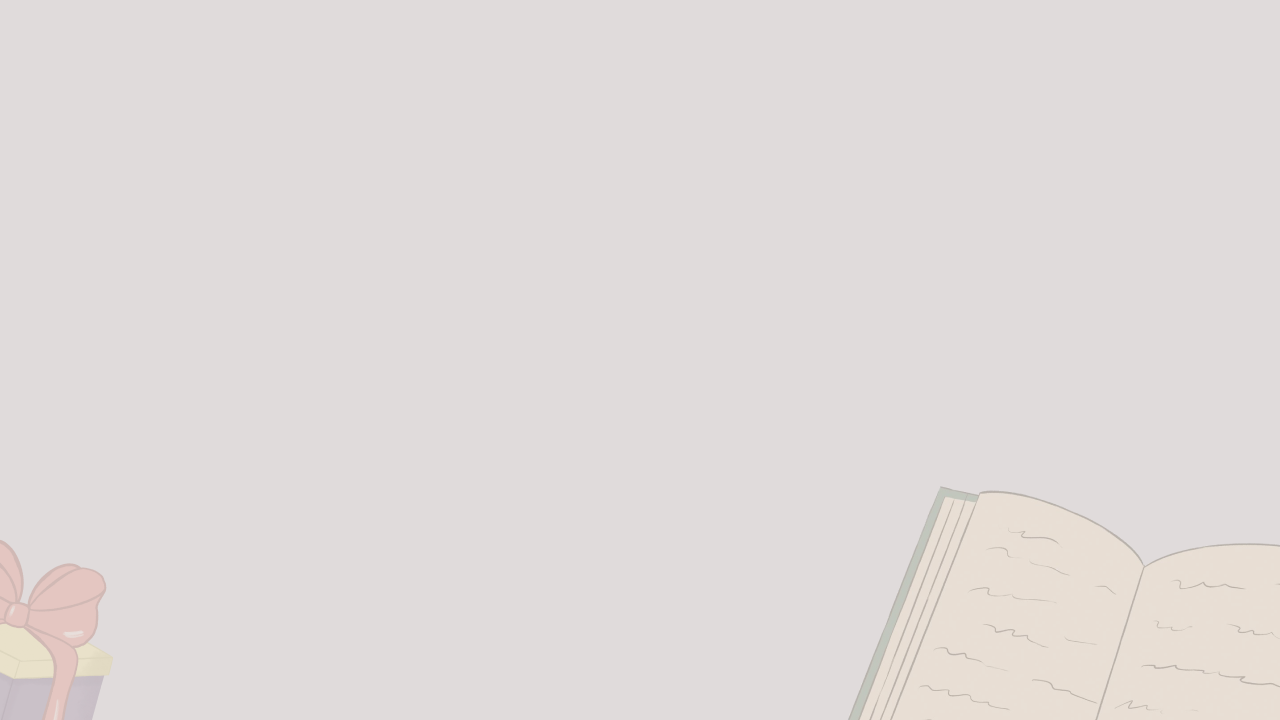
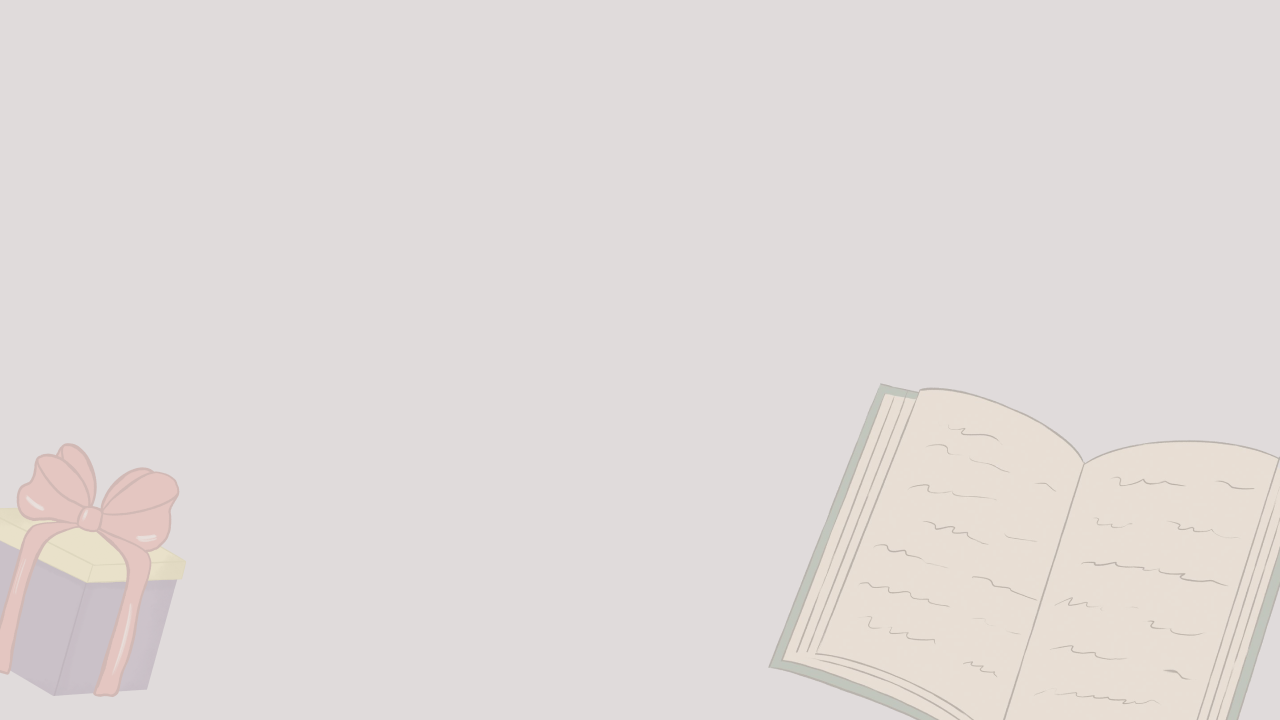
Working on About Us section

diff --git a/kazkovyi-dim-app/src/app/components/aboutUs/AboutUs.js b/kazkovyi-dim-app/src/app/components/aboutUs/AboutUs.js
@@ -1,0 +1,50 @@
+import { fetchAbouUs } from "@/app/utils/fetchAboutUs";
+import processImage from "@/app/utils/imageProcessor";
+import { PortableText } from "next-sanity";
+
+export default async function AboutUs() {
+  const aboutUsData = await fetchAbouUs();
+  const processedImg = processImage(aboutUsData[0].image);
+
+  console.log(aboutUsData[0].description);
+  return (
+    <div className="mx-auto max-w-screen-xl px-4 pb-8 lg:pb-0 md:px-6 lg:px-8">
+      <div className="mt-0 lg:mt-14 items-center font-calibri">
+        <h1 className="text-2xl md:text-3xl text-center lg:text-start lg:text-4xl font-bold text-ochre-500">
+          Про нас
+        </h1>
+        <div className="flex flex-col md:flex-row justify-center items-center md:items-start mt-8 gap-10">
+          <img src={processedImg} className="h-60 w-full md:h-120 md:max-w-100 rounded-3xl shadow-xl/20 hover:scale-105 transition-all object-cover cursor-pointer" />
+          <div className="text-ochre-500 text-md md:text-lg lg:text-xl text-shadow-2xs">
+            <PortableText
+              value={aboutUsData[0].description}
+              components={{
+                marks: {
+                  link: ({ value, children }) => {
+                    const target = value?.href?.startsWith("http")
+                      ? "_blank"
+                      : undefined;
+                    return (
+                      <a
+                        href={value?.href}
+                        target={target}
+                        rel={
+                          target === "_blank"
+                            ? "noopener noreferrer"
+                            : undefined
+                        }
+                        className="text-gray-600 underline hover:text-gray-500 transition-colors"
+                      >
+                        {children}
+                      </a>
+                    );
+                  },
+                },
+              }}
+            />
+          </div>
+        </div>
+      </div>
+    </div>
+  );
+}

diff --git a/kazkovyi-dim-app/src/app/components/ui/EventDetails.js b/kazkovyi-dim-app/src/app/components/ui/EventDetails.js
@@ -1,28 +1,33 @@
 import { PortableText } from "next-sanity";
 import processImage from "@/app/utils/imageProcessor";
+import processDate from "@/app/utils/dateProcessor";
 
 export default function EventDetails({ data, onClose }) {
   const processedImg = processImage(data.img);
-  console.log(data);
+
   return (
     <div
-      className="fixed inset-0 z-50 bg-opacity-30 backdrop-blur-sm"
+      className="fixed inset-0 z-50 bg-opacity-30 backdrop-blur-sm m-auto"
       onClick={() => onClose()}
     >
-      <div className="flex justify-center items-center shadow-lg w-full m-auto p-6 h-full">
+      <div className="flex justify-center items-center shadow-lg p-6 h-full">
         <div className="bg-crema flex flex-col md:flex-row gap-2 md:gap-6 rounded-2xl m-5 md:m-10 lg:m-20 xl:m-50 p-6 shadow-xl transition-all">
-          <div className="bg-ochre p-2 rounded-xl">
+          <div className="bg-ochre p-2 rounded-xl relative">
+            <div className="absolute right-5 bottom-8 rounded-sm bg-cielo p-1">
+              {data.processedDate}
+            </div>
             <img
               className="rounded-xl h-70 min-w-70 lg:w-100 lg:h-100 object-cover"
               src={processedImg}
               alt="placeholder"
             />
           </div>
+
           <div className="w-full md:w-3/4">
-            <h1 className="text-slate-900 text-md md:text-lg lg:text-xl mb-2 font-bold">
+            <h1 className="text-ochre-500 text-md md:text-lg lg:text-xl mb-2 font-bold">
               {data.title}
             </h1>
-            <div className="text-amber-950 text-sm md:text-md lg:text-lg">
+            <div className="text-ochre-500 text-sm md:text-md lg:text-lg">
               <PortableText
                 value={data.description}
                 components={{

diff --git a/kazkovyi-dim-app/src/app/components/cards/EventCard.js b/kazkovyi-dim-app/src/app/components/cards/EventCard.js
@@ -1,13 +1,16 @@
+import processDate from "@/app/utils/dateProcessor";
 import processImage from "@/app/utils/imageProcessor";
 
 export default function EventCard({
   title,
   description,
   img,
+  date,
   setShowDetailsModal,
   setSelectedData,
 }) {
   const processedImg = processImage(img);
+  const processedDate = processDate(date);
 
   return (
     <div
@@ -17,15 +20,23 @@ export default function EventCard({
           title,
           description,
           img,
+          processedDate,
         });
         setShowDetailsModal(true);
       }}
     >
-      <div className="bg-ochre p-2 rounded-xl">
-        <img className="rounded-xl h-80 w-96 object-cover" src={processedImg} alt="placeholder" />
+      <div className="bg-ochre p-3 rounded-xl relative">
+        <div className="absolute right-5 bottom-8 rounded-sm bg-cielo p-1">
+          {processedDate}
+        </div>
+        <img
+          className="rounded-xl h-80 w-96 object-cover"
+          src={processedImg}
+          alt="placeholder"
+        />
       </div>
-      <h1 className="mt-2 text-2xl font-black text-amber-900">{title}</h1>
-      <p className="line-clamp-3 mt-1 text-amber-950">
+      <h1 className="mt-2 text-2xl font-black text-ochre-500">{title}</h1>
+      <p className="line-clamp-3 mt-1 text-ochre-500">
         {description?.[0]?.children?.[0]?.text || "Опис не доступний"}
       </p>
     </div>

diff --git a/kazkovyi-dim-app/src/app/components/events/EventsClient.js b/kazkovyi-dim-app/src/app/components/events/EventsClient.js
@@ -15,7 +15,7 @@ export default function EventsClient({ events }) {
   return (
     <>
       <div className="mx-auto max-w-screen-xl px-4 pb-8 lg:pb-0 md:px-6 lg:px-8">
-        <div className="mt-4 md:mt-18 lg:mt-14 items-center font-calibri">
+        <div className="mt-0 lg:mt-14 items-center font-calibri">
           <h1 className="text-2xl md:text-3xl text-center lg:text-start lg:text-4xl font-bold text-white">
             Наші події та новинки
           </h1>
@@ -26,6 +26,7 @@ export default function EventsClient({ events }) {
                 title={event.title}
                 description={event.description}
                 img={event.image}
+                date={event.publishedAt}
                 setShowDetailsModal={setShowDetailsModal}
                 setSelectedData={setSelectedData}
               />

diff --git a/kazkovyi-dim-app/src/app/page.js b/kazkovyi-dim-app/src/app/page.js
@@ -1,5 +1,6 @@
 import MainHero from "./components/hero/MainHero";
 import EventsWrapper from "./components/events/EventsWrapper";
+import AboutUs from "./components/aboutUs/AboutUs";
 
 export default function Home() {
   return (
@@ -15,6 +16,12 @@ export default function Home() {
         className="bg-[url('/backgrounds/inst.png')] bg-cover items-center justify-center min-h-full xl:min-h-screen pt-12 sm:p-14 gap-16"
       >
         <EventsWrapper />
+      </div>
+      <div
+        id="aboutUs"
+        className="bg-[url('/backgrounds/about-us.png')] bg-cover items-center justify-center min-h-full xl:min-h-screen pt-12 sm:p-14 gap-16"
+      >
+        <AboutUs />
       </div>
     </>
   );

diff --git a/studio-kazkovyi-dim/schemaTypes/aboutUs.ts b/studio-kazkovyi-dim/schemaTypes/aboutUs.ts
@@ -1,0 +1,24 @@
+import { defineField, defineType } from 'sanity'
+
+export const aboutUs = defineType({
+    name: 'aboutUs',
+    title: 'AboutUs',
+    type: 'document',
+    fields: [
+        defineField({
+            name: 'image',
+            type: 'image',
+        }),
+        defineField({
+            name: 'description',
+            type: 'array',
+            of: [{ type: 'block' }],
+        }),
+        defineField({
+            name: 'publishedAt',
+            type: 'datetime',
+            initialValue: () => new Date().toISOString(),
+            validation: (rule) => rule.required(),
+        }),
+    ],
+})

diff --git a/kazkovyi-dim-app/src/app/utils/fetchAboutUs.js b/kazkovyi-dim-app/src/app/utils/fetchAboutUs.js
@@ -1,0 +1,14 @@
+import { client } from "@/sanity/client";
+
+export async function fetchAbouUs() {
+  const ABOUTUS_QUERY = `*[_type == "aboutUs"] | order(publishedAt desc){
+        _id,
+        image,
+        description,
+        publishedAt,
+    }`;
+
+  const options = { next: { revalidate: 30 } };
+
+  return await client.fetch(ABOUTUS_QUERY, {}, options);
+}

diff --git a/studio-kazkovyi-dim/schemaTypes/index.ts b/studio-kazkovyi-dim/schemaTypes/index.ts
@@ -1,4 +1,4 @@
 import { eventsType } from './eventsType'
-import { postType2 } from './postType2'
+import { aboutUs } from './aboutUs'
 
-export const schemaTypes = [eventsType, postType2]
+export const schemaTypes = [eventsType, aboutUs]

diff --git a/kazkovyi-dim-app/src/app/utils/dateProcessor.js b/kazkovyi-dim-app/src/app/utils/dateProcessor.js
@@ -1,0 +1,7 @@
+export default function processDate(date) {
+  return new Date(date).toLocaleDateString("uk-UK", {
+    year: "numeric",
+    month: "long",
+    day: "numeric",
+  });
+}

diff --git a/kazkovyi-dim-app/src/app/globals.css b/kazkovyi-dim-app/src/app/globals.css
@@ -7,6 +7,7 @@
 }
 
 @theme {
+  --color-ochre-500: #735947;
   --color-ochre: #a89182;
   --color-tender: #978788;
   --color-cielo: #b2c5d3;
